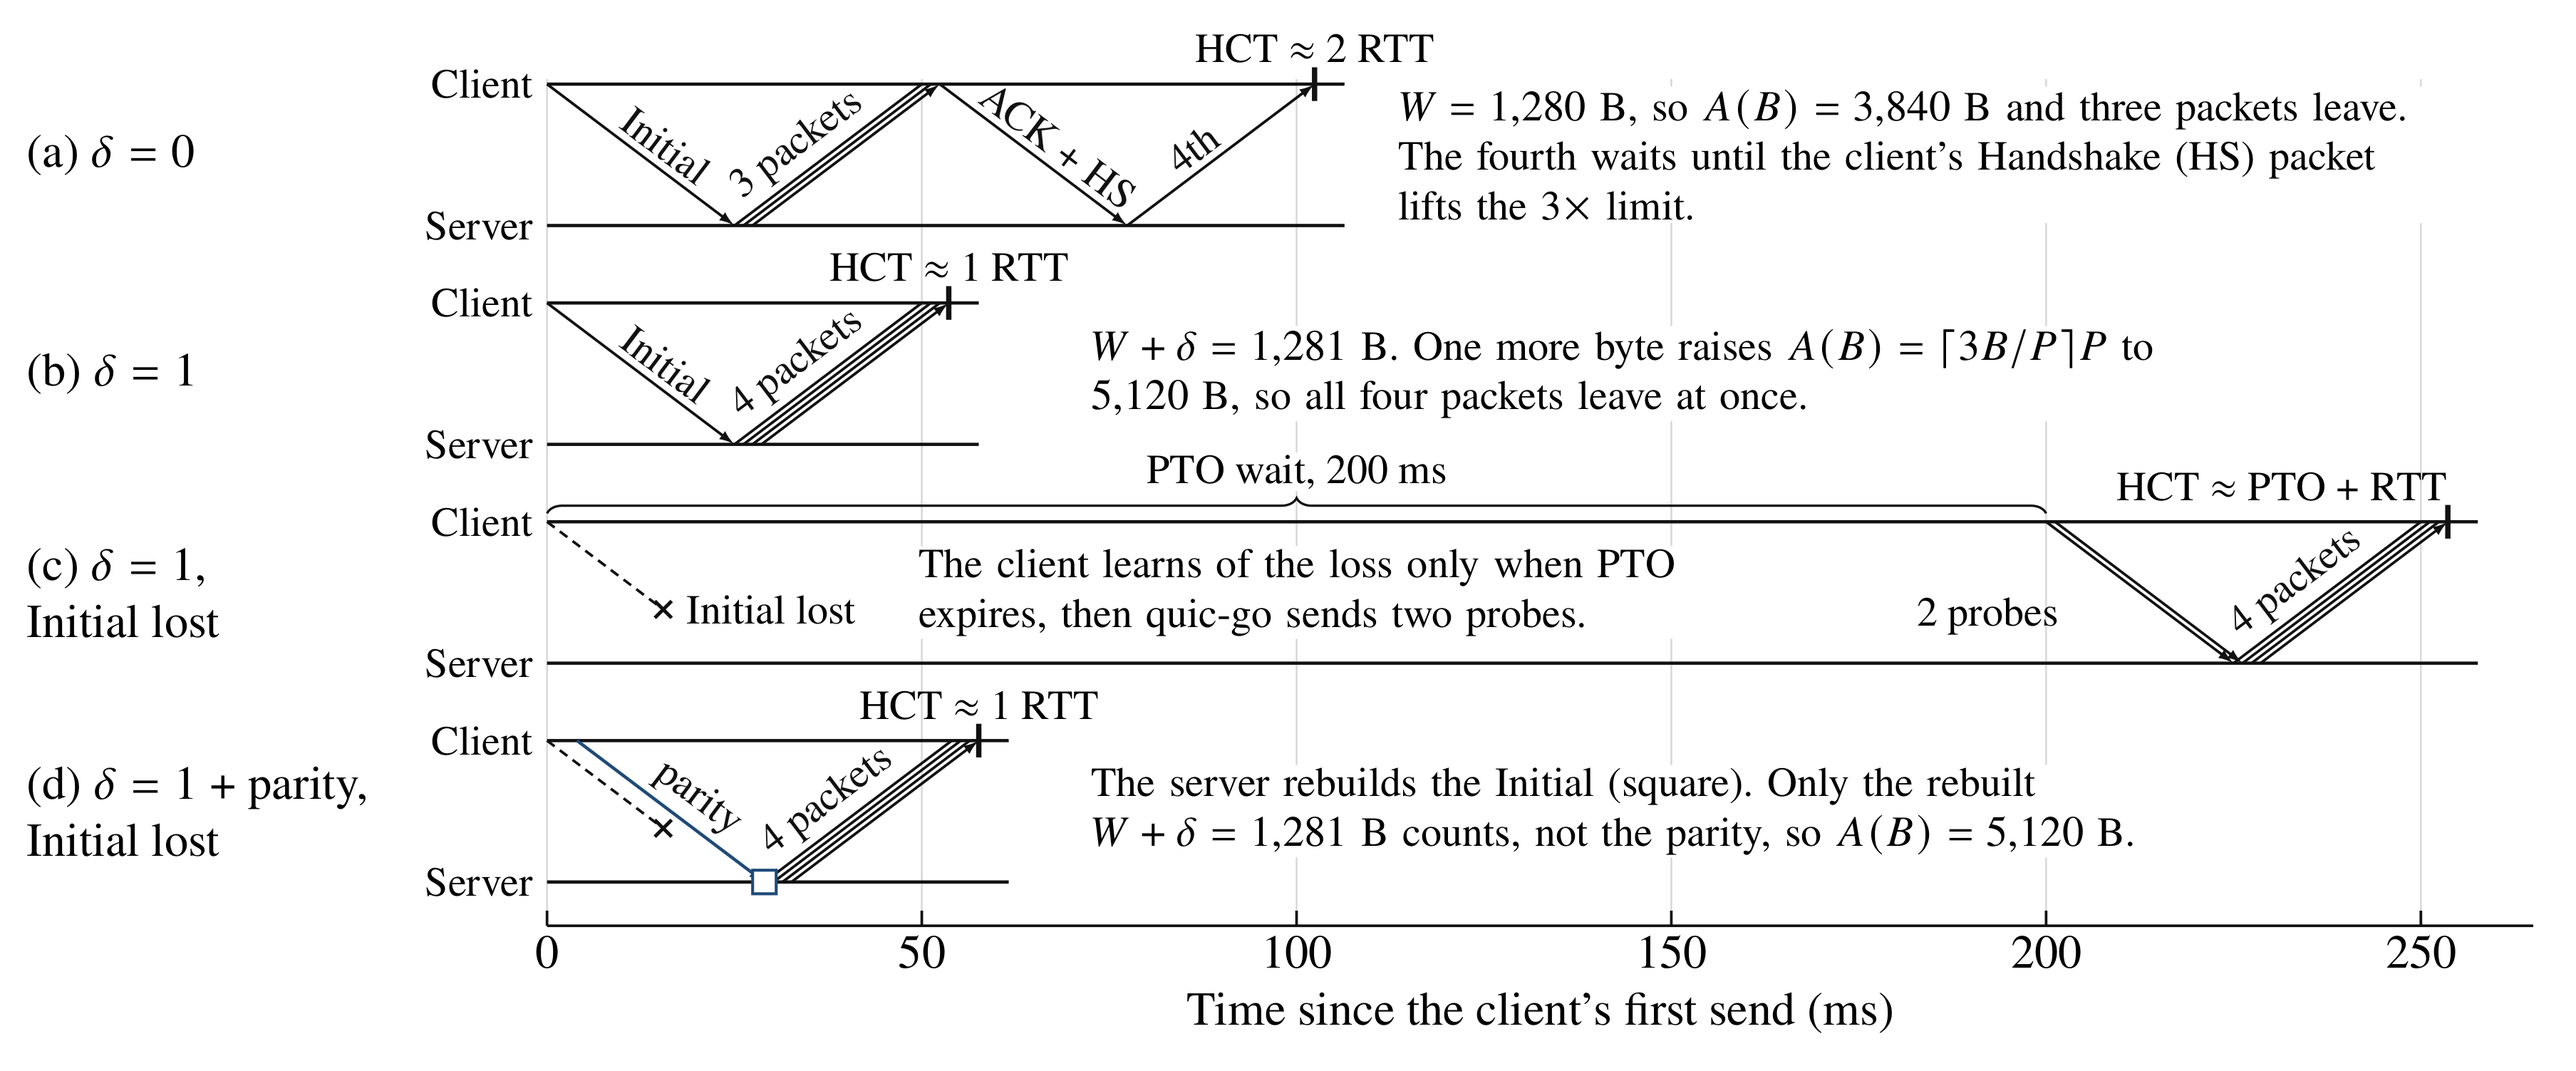
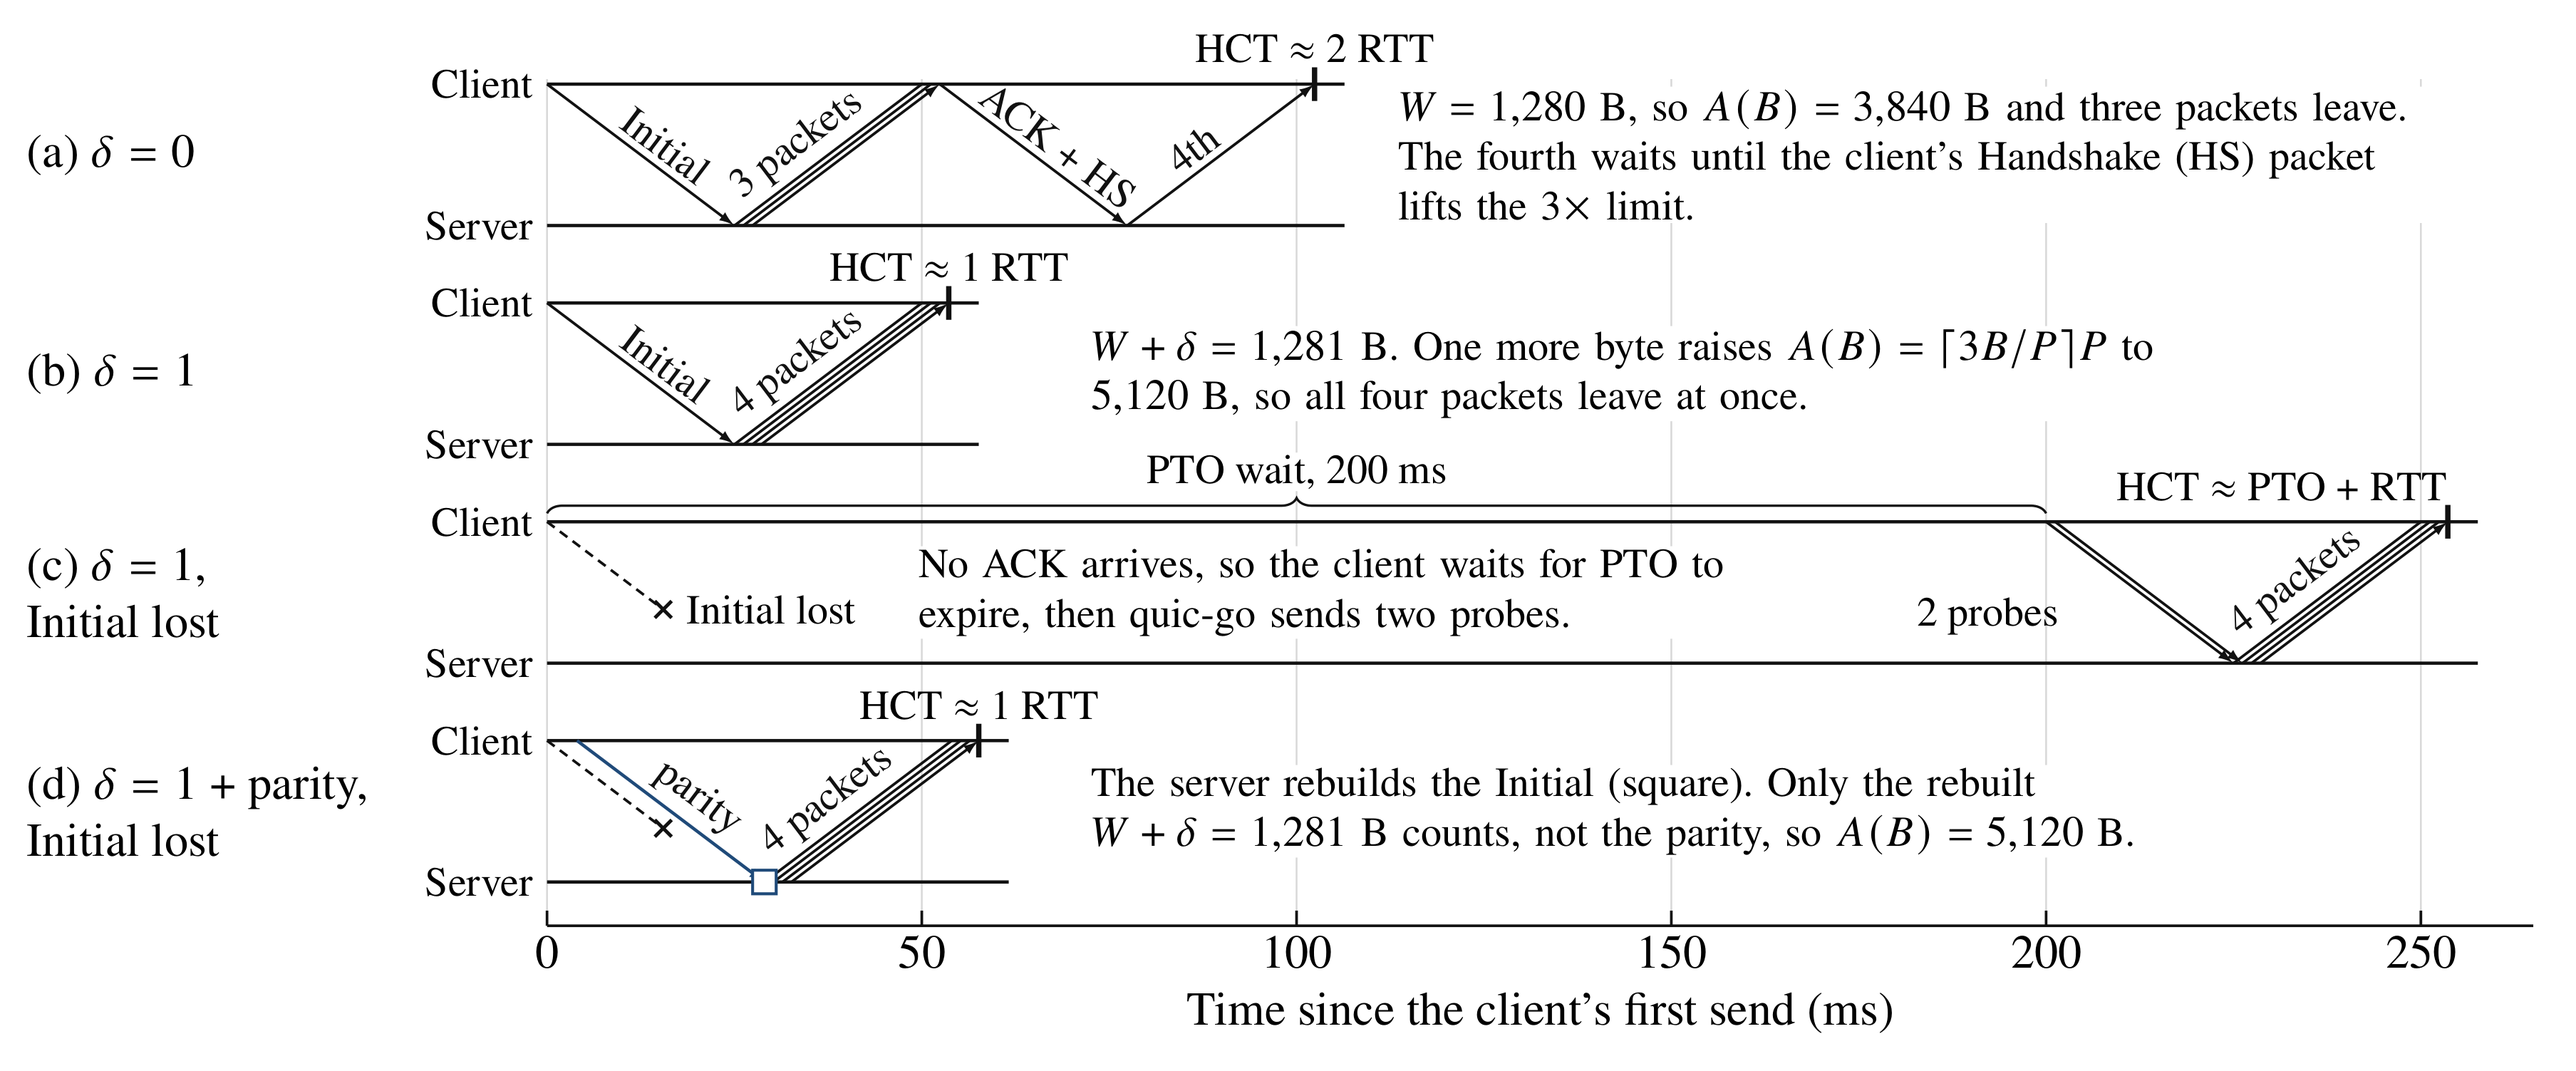
그림 1 문구 수정

Changed region(s): [[0.3408, 0.4897, 0.6816, 0.6121]]

diff --git a/pq_afec_gen33/report_repro/fig1_timing.tex b/pq_afec_gen33/report_repro/fig1_timing.tex
@@ -71,7 +71,7 @@
 \node[sml,anchor=south,fill=white,inner sep=0.4pt] at (75.528,33.750) {PTO wait, 200 ms};
 \draw[donetick] (143.924,31.000) -- (143.924,33.000);
 \node[sml,anchor=south east] at (143.924,33.200) {HCT $\approx$ PTO + RTT};
-\node[sml,anchor=west,align=left,text width=50.0mm,fill=white,inner sep=0.5pt] at (52.819,27.800) {\hyphenpenalty=10000\exhyphenpenalty=10000 The client learns of the loss only when PTO \mbox{expires}, then quic-go sends two probes.};
+\node[sml,anchor=west,align=left,text width=50.0mm,fill=white,inner sep=0.5pt] at (52.819,27.800) {\hyphenpenalty=10000\exhyphenpenalty=10000 No ACK arrives, so the client waits for PTO to \mbox{expire}, then quic-go sends two probes.};
 \node[lab,anchor=west,align=left] at (0,14.800) {(d) $\delta=1$ + parity,\\Initial lost};
 \draw[msgplain] (43.913,10.600) -- node[sml,text=ink,sloped,pos=0.42,above=0.2mm,inner sep=0.2mm] {4 packets} (55.045,19.000);
 \draw[msgplain] (44.448,10.600) -- (55.580,19.000);

diff --git a/pq_afec_gen33/report_repro/tools/fig1.py b/pq_afec_gen33/report_repro/tools/fig1.py
@@ -124,7 +124,7 @@ to_client(2, PTO + OW, NEED, '4 packets')
 out.append(r'\draw[brc] (%.3f,%.3f) -- (%.3f,%.3f);' % (X(0), yc(2) + 0.5, X(PTO), yc(2) + 0.5))
 out.append(r'\node[sml,anchor=south,fill=white,inner sep=0.4pt] at (%.3f,%.3f) {PTO wait, 200 ms};' % (X(PTO / 2), yc(2) + 1.75))
 done(2, end, r'HCT $\approx$ PTO + RTT', 'south east')
-note(2, 49, r'The client learns of the loss only when PTO \mbox{expires}, then quic-go sends two probes.', 50)
+note(2, 49, r'No ACK arrives, so the client waits for PTO to \mbox{expire}, then quic-go sends two probes.', 50)
 
 label(3, r'(d) $\delta=1$ + parity,' + '\\\\' + 'Initial lost')
 t_d = PAR + OW
